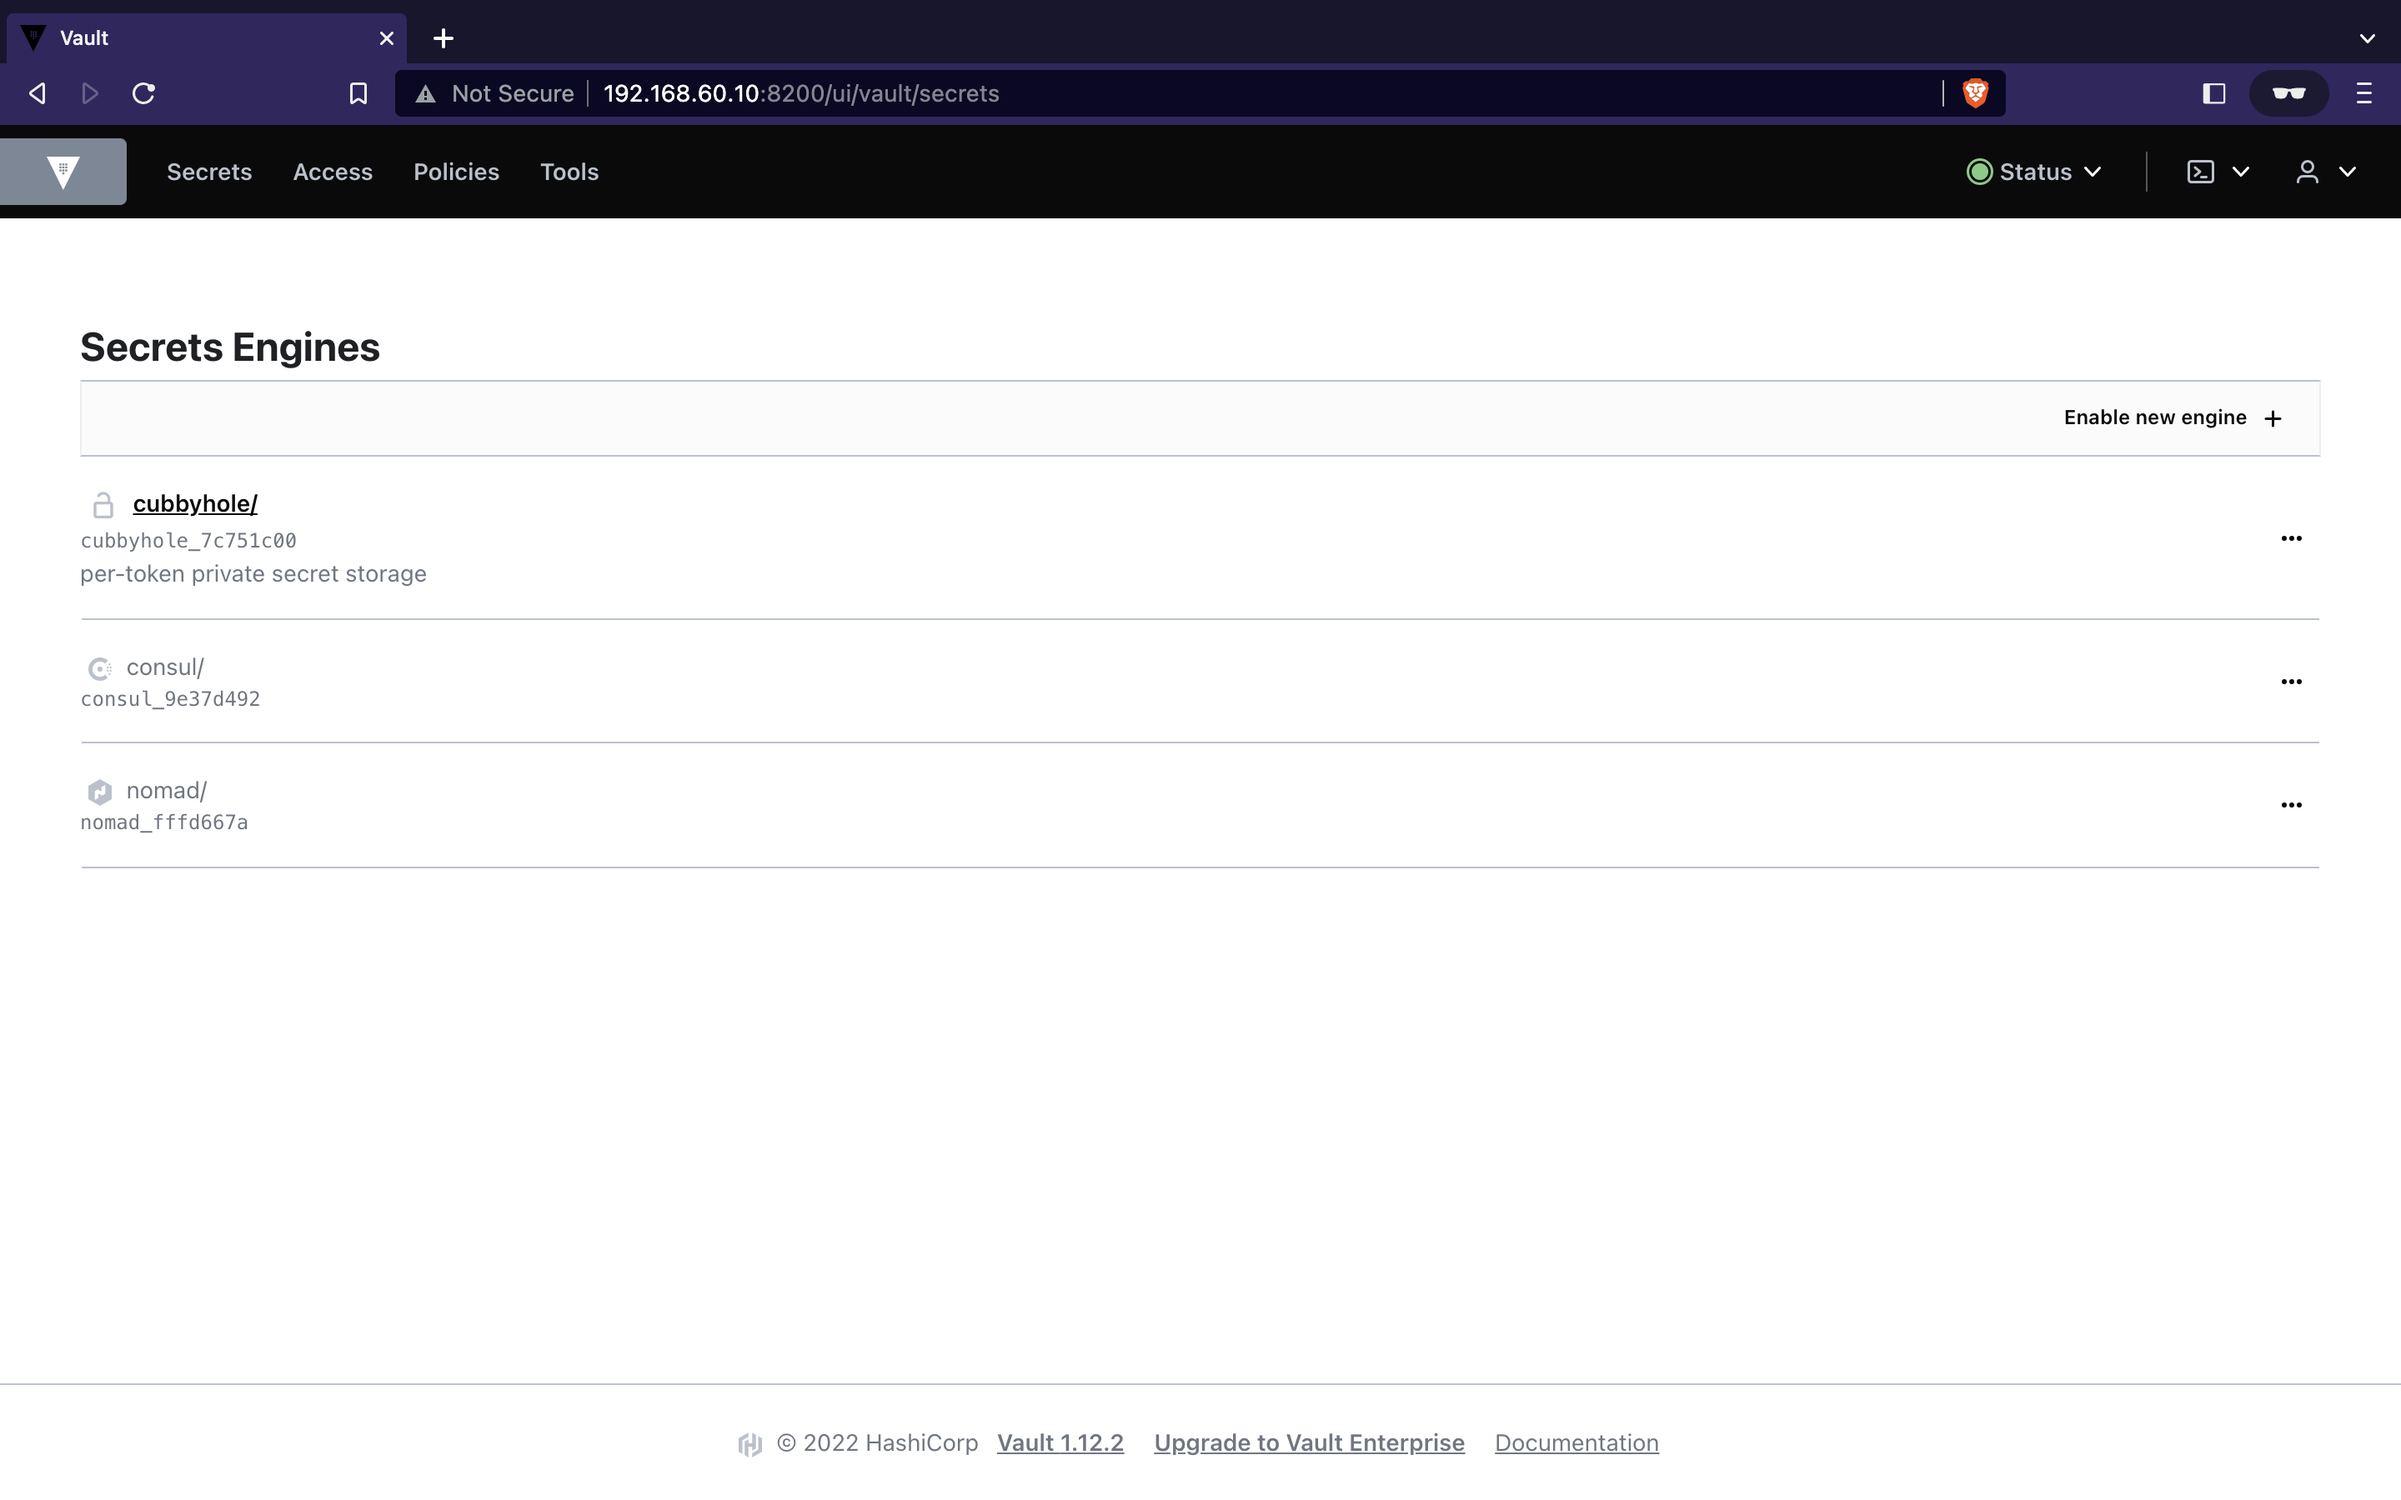
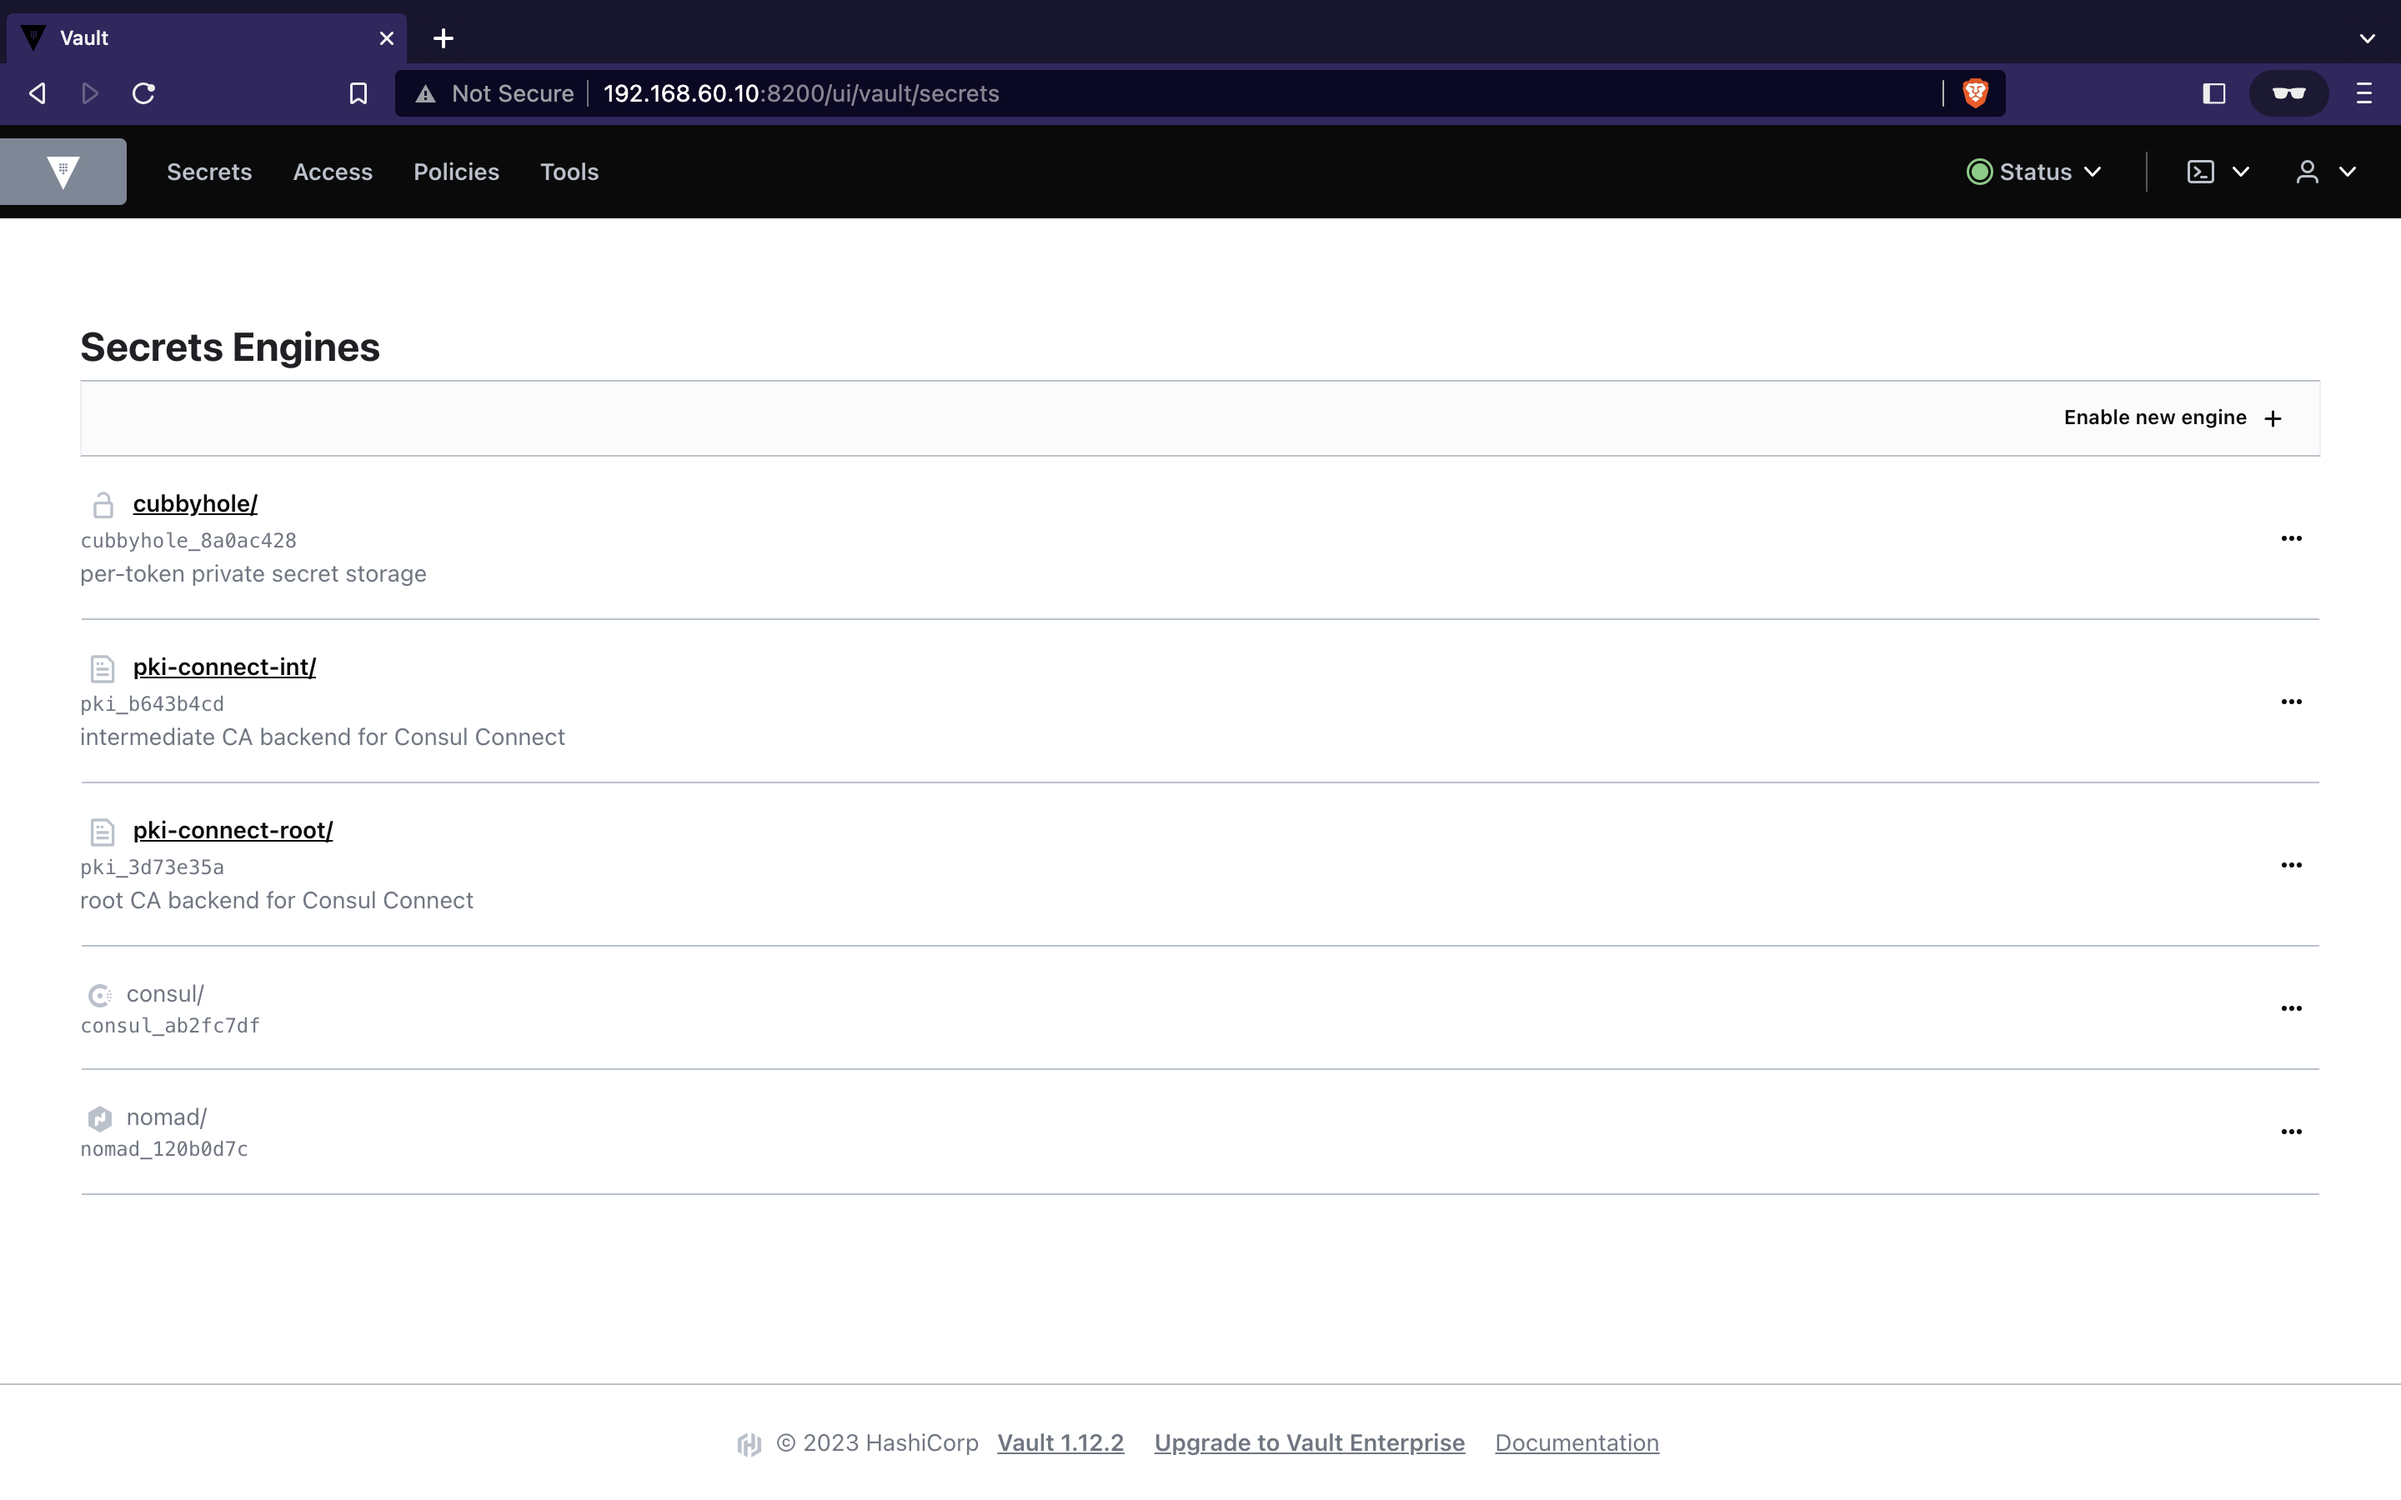
feat(consul): Enable Connect with Vault as CA provider

diff --git a/documentation/overview.md b/documentation/overview.md
@@ -8,7 +8,7 @@ title: "Overview"
 HashiBox is a local environment to simulate a highly-available cloud with
 [Consul](https://www.consul.io/), [Nomad](https://www.nomadproject.io/), and
 [Vault](https://www.vaultproject.io/). OSS and Enterprise versions of each
-product are supported.
+product are supported. Consul Connect is enabled and uses Vault as CA provider.
 
 [Waypoint](https://www.waypointproject.io/) can be added but is optional. It also
 installs [Docker](https://www.docker.com/) for running Nomad's jobs inside

diff --git a/README.md b/README.md
@@ -3,7 +3,7 @@
 HashiBox is a local environment to simulate a highly-available cloud with
 [Consul](https://www.consul.io/), [Nomad](https://www.nomadproject.io/), and
 [Vault](https://www.vaultproject.io/). OSS and Enterprise versions of each
-product are supported.
+product are supported. Consul Connect is enabled and uses Vault as CA provider.
 
 [Waypoint](https://www.waypointproject.io/) can be added but is optional. It also
 installs [Docker](https://www.docker.com/) for running Nomad's jobs inside
